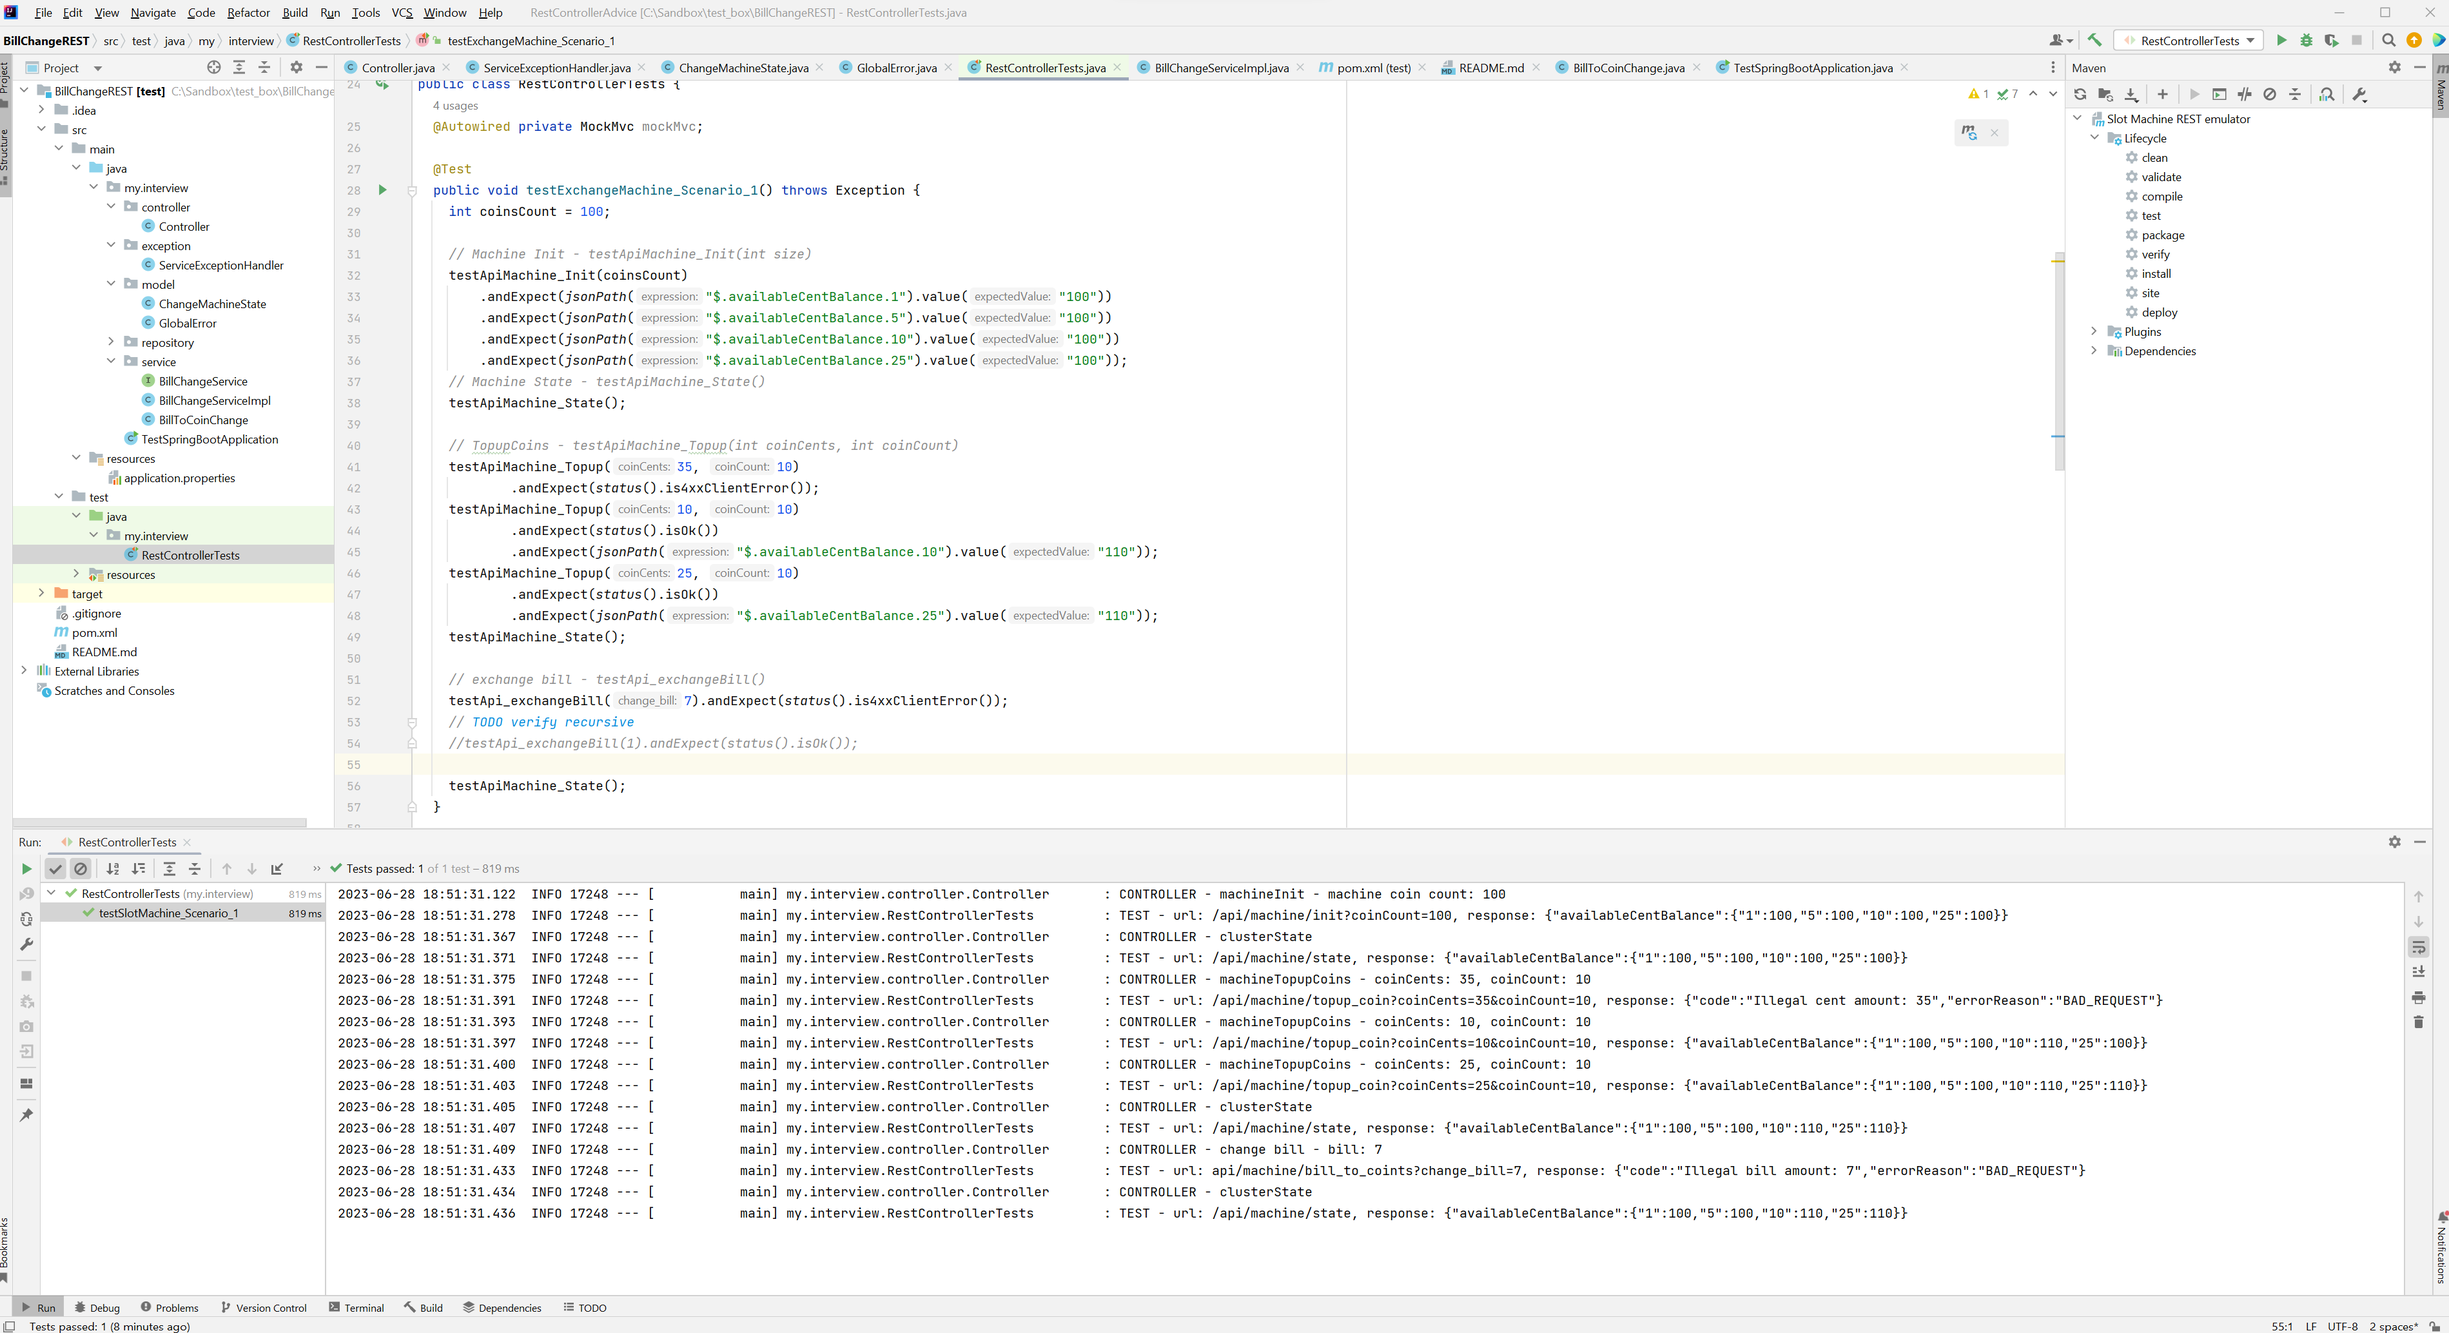
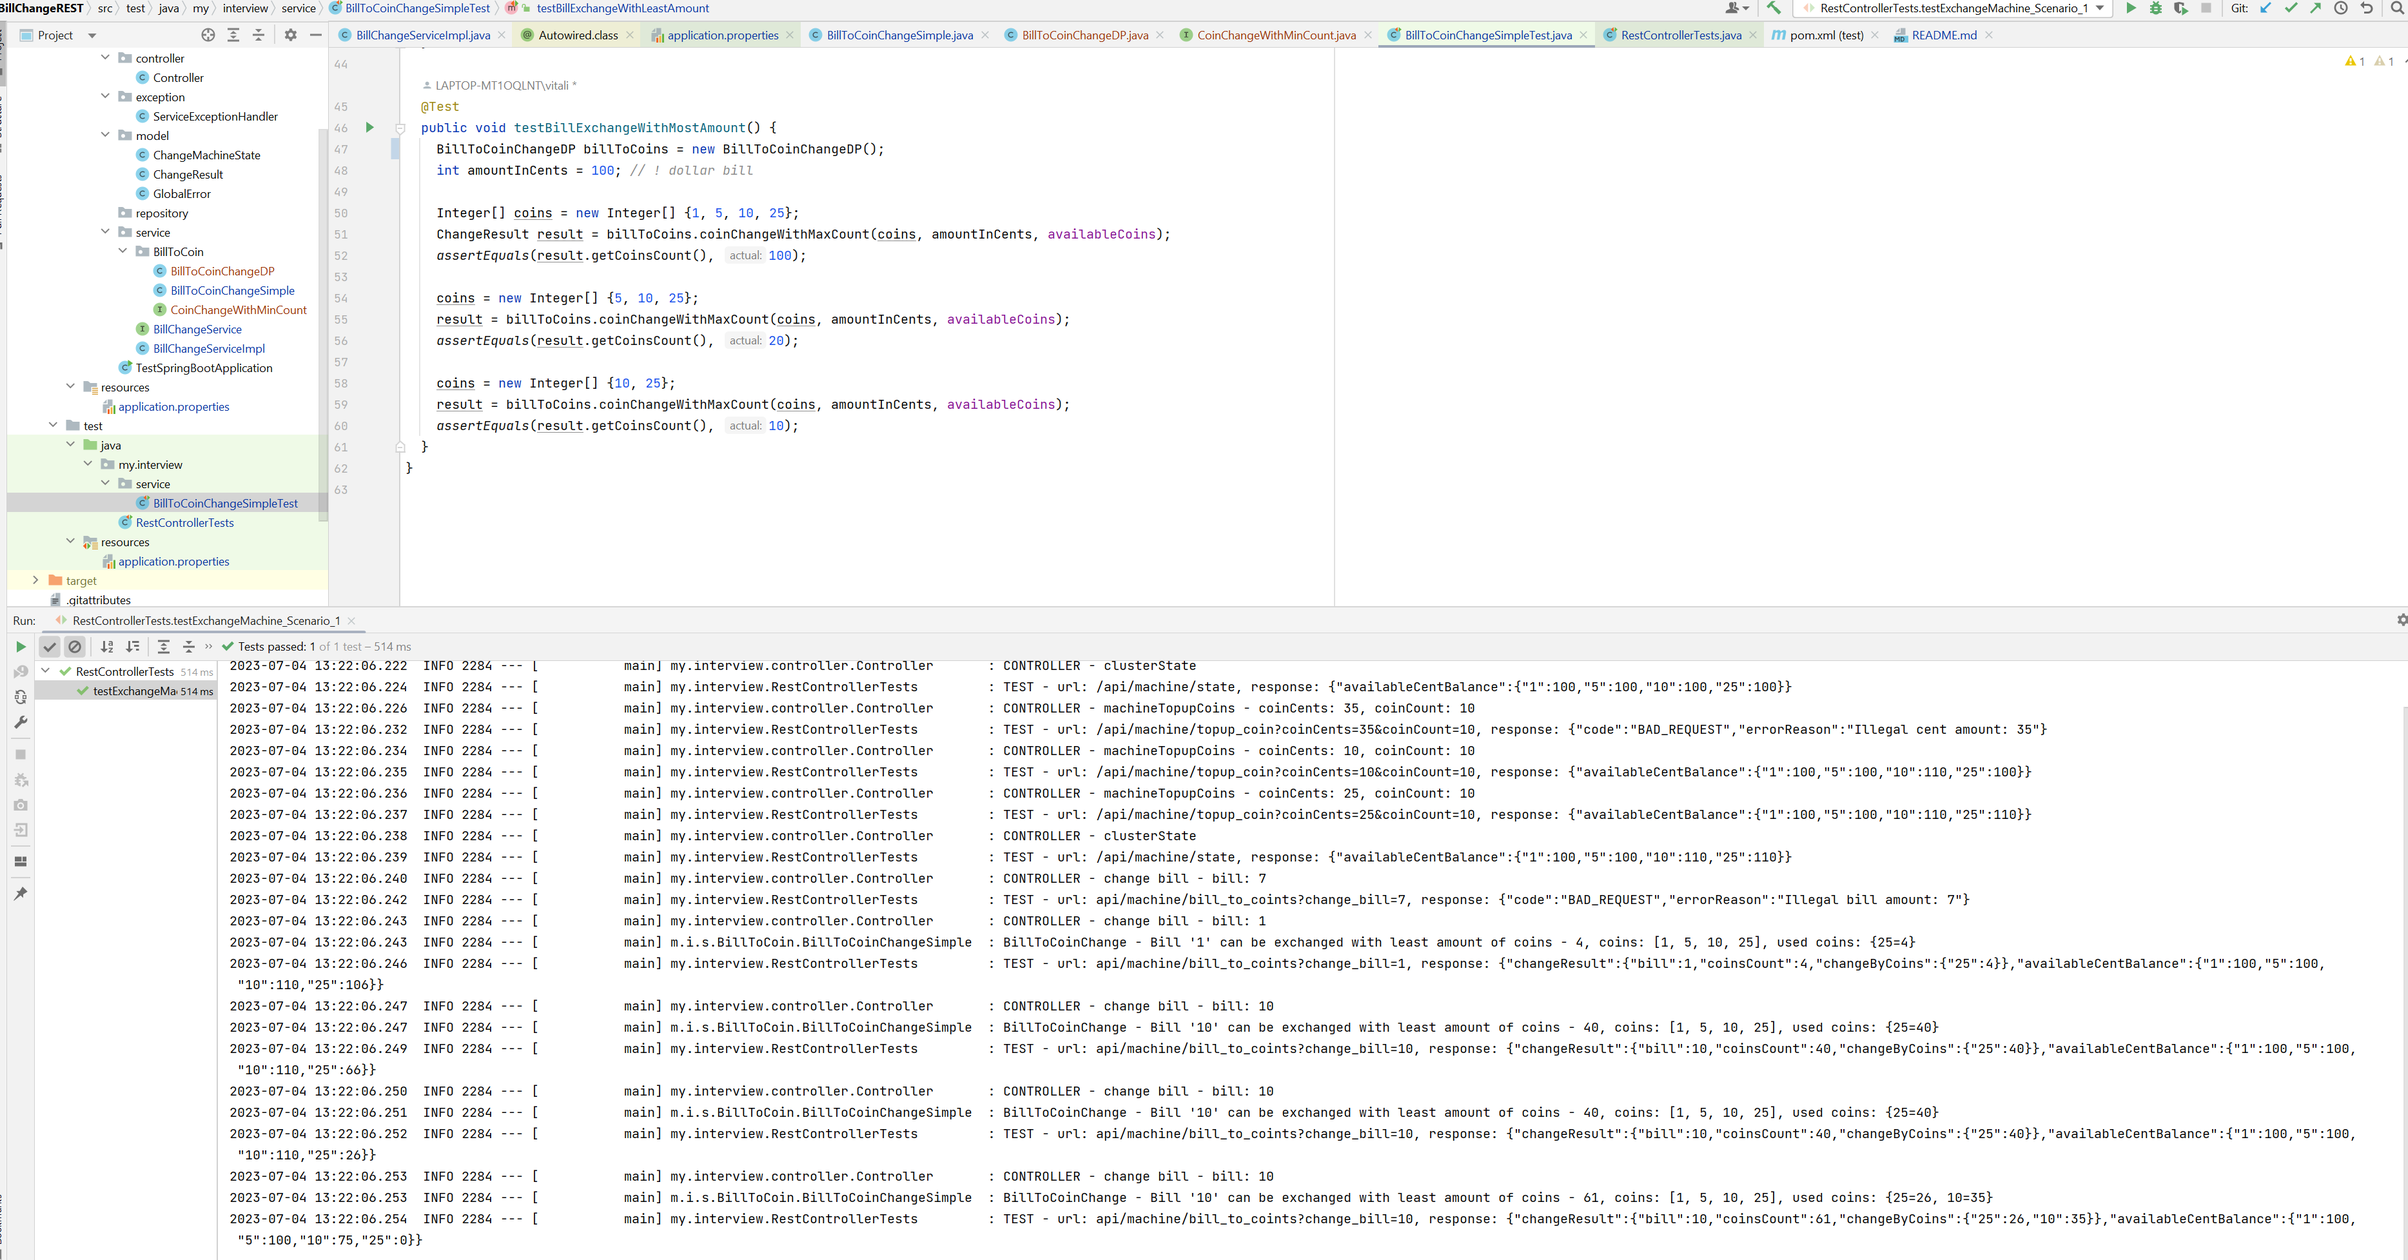
adjust tests to simple approach

diff --git a/src/main/java/my/interview/service/BillChangeServiceImpl.java b/src/main/java/my/interview/service/BillChangeServiceImpl.java
@@ -3,6 +3,11 @@ package my.interview.service;
 import lombok.extern.slf4j.Slf4j;
 import my.interview.model.ChangeMachineState;
 import my.interview.model.ChangeResult;
+import my.interview.service.BillToCoin.BillToCoinChangeSimple;
+import my.interview.service.BillToCoin.CoinChangeWithMinCount;
+import org.springframework.beans.factory.annotation.Autowired;
+import org.springframework.beans.factory.annotation.Qualifier;
+import org.springframework.beans.factory.annotation.Value;
 import org.springframework.stereotype.Service;
 
 import java.util.*;
@@ -12,12 +17,20 @@ import java.util.stream.Stream;
 @Slf4j
 public class BillChangeServiceImpl implements BillChangeService {
 
-  public static final Integer[] AVAILABLE_BILLS = new Integer[] {1, 2, 5, 10, 25, 50, 100};
-  public static final Integer[] AVAILABLE_COINS = new Integer[] {1, 5, 10, 25};
+  @Autowired
+  @Qualifier("BillToCoinChangeSimple")
+  private CoinChangeWithMinCount coinChangeWithMinCount;
+
   private Map<Integer, Integer> coinsAvailable;
 
-  public boolean verifyBillAmount(int billAmount) {
-    if (!Stream.of(AVAILABLE_BILLS).anyMatch(item -> item.equals(billAmount))) {
+  @Value("${application.bills}")
+  public Integer[] availableBills;
+
+  @Value("${application.coins}")
+  public Integer[] availableCoins;
+
+  public boolean verifyBillAmount(Integer billAmount) {
+    if (!Stream.of(availableBills).anyMatch(item -> item.equals(billAmount))) {
       throw new IllegalArgumentException(String.format("Illegal bill amount: %s", billAmount));
     }
 
@@ -25,8 +38,8 @@ public class BillChangeServiceImpl implements BillChangeService {
   }
 
   @Override
-  public boolean verifyCentsAmount(int centAmount) {
-    if (!Stream.of(AVAILABLE_COINS).anyMatch(item -> item.equals(centAmount))) {
+  public boolean verifyCentsAmount(Integer centAmount) {
+    if (!Stream.of(availableCoins).anyMatch(item -> item.equals(centAmount))) {
       throw new IllegalArgumentException(String.format("Illegal cent amount: %s", centAmount));
     }
 
@@ -57,8 +70,8 @@ public class BillChangeServiceImpl implements BillChangeService {
     }
 
     coinsAvailable = new TreeMap<>();
-    for (int i = 0; i < AVAILABLE_COINS.length; i++) {
-      coinsAvailable.put(AVAILABLE_COINS[i], initTokensCount);
+    for (int i = 0; i < availableCoins.length; i++) {
+      coinsAvailable.put(availableCoins[i], initTokensCount);
     }
 
     return buildChangeMachineState(coinsAvailable);
@@ -84,10 +97,8 @@ public class BillChangeServiceImpl implements BillChangeService {
   }
 
   private ChangeMachineState doChangeBill(Integer billInCents) {
-    BillToCoinChange exchanger = new BillToCoinChange();
-
     ChangeResult coinChangeResult =
-        exchanger.coinChangeWithMinCount(AVAILABLE_COINS, billInCents, coinsAvailable);
+        coinChangeWithMinCount.coinChangeWithMinCount(availableCoins, billInCents, coinsAvailable);
 
     adjustCoinChangeResult(coinChangeResult.getChangeByCoins());
 
@@ -101,6 +112,12 @@ public class BillChangeServiceImpl implements BillChangeService {
     coinChangeResult.forEach(
         (key, value) -> {
           Integer current = coinsAvailable.getOrDefault(key, 0);
+
+          if (current < value) {
+            throw new IllegalArgumentException(
+                String.format("Not available %s [cent: %, current: %s]", value, key, current));
+          }
+
           coinsAvailable.put(key, current - value);
         });
   }

diff --git a/src/main/java/my/interview/service/BillToCoin/BillToCoinChangeDP.java b/src/main/java/my/interview/service/BillToCoin/BillToCoinChangeDP.java
@@ -1,32 +1,28 @@
-package my.interview.service;
-
-import lombok.extern.slf4j.Slf4j;
-import my.interview.model.ChangeResult;
+package my.interview.service.BillToCoin;
 
 import java.util.*;
+import lombok.extern.slf4j.Slf4j;
+import my.interview.model.ChangeResult;
+import org.springframework.stereotype.Service;
 
 @Slf4j
-public class BillToCoinChange {
+@Service()
+public class BillToCoinChangeDP implements CoinChangeWithMinCount {
   private Map<Integer, Integer> coinsMemo;
   private Map<Integer, Integer> availableCoins;
 
-  private Integer[] getCoinsLimits(Integer[] coins, Map<Integer, Integer> availableCoins) {
-    Integer[] coinsLimit = new Integer[coins.length];
-    for (int i = 0; i < coins.length; i++) {
-      coinsLimit[i] = availableCoins.getOrDefault(coins[i], 0);
-    }
-
-    return coinsLimit;
-  }
-
+  
+  @Override
   public ChangeResult coinChangeWithMinCount(
       Integer[] coins, int amount, Map<Integer, Integer> availableCoins) {
     this.coinsMemo = new HashMap<>();
     this.availableCoins = availableCoins;
 
-    int minCoins = coinChangeWithMinCountDP(amount, coins);
+    Integer[] coinsLimits = getCoinsLimits(coins, availableCoins);
+    //int minCoins = coinChangeWithMinCountDP(amount, coins);
+    int minCoins = coinChangeWithMinCountDP(amount, coins, coinsLimits);
 
-    // Integer[] coinsLimits = getCoinsLimits(coins, availableCoins);
+
     // int changeDynamics = dynamicChange(amount, coins, coinsLimits);
     // log.info("changeCoins: {}", changeDynamics);
     // int minCoins = coinChangeRecursive(coins, amount, amount, 0, new HashMap<Integer,
@@ -83,6 +79,33 @@ public class BillToCoinChange {
         .coinsCount(maxCoins)
         .changeByCoins(coinsMemo)
         .build();
+  }
+  private int coinChangeWithMinCountDP(int amount, Integer[] coins, Integer[] limits) {
+    Integer currentAmmount = amount;
+    Integer totalCoins = 0;
+
+    for (int i= coins.length - 1; i >= 0; i--){
+      Integer currentLimit  = limits[i];
+
+
+      int  currentCoinsNumber = currentAmmount/coins[i];
+      int divider = Math.min(currentLimit, currentCoinsNumber);
+      totalCoins +=divider;
+
+      currentAmmount = currentAmmount - divider*coins[i];
+
+      log.info("MIN with limit: currentCoinsNumber: {}, curLimit: {}", currentLimit, currentCoinsNumber, divider);
+
+      if (currentCoinsNumber > 0){
+        coinsMemo.put(coins[i], totalCoins);
+      }
+
+      if (currentAmmount == 0){
+        return totalCoins;
+      }
+    }
+
+    return -1;
   }
 
   private int coinChangeWithMinCountDP(int amount, Integer[] coins) {

diff --git a/src/main/java/my/interview/service/BillToCoin/BillToCoinChangeSimple.java b/src/main/java/my/interview/service/BillToCoin/BillToCoinChangeSimple.java
@@ -1,0 +1,73 @@
+package my.interview.service.BillToCoin;
+
+import lombok.extern.slf4j.Slf4j;
+import my.interview.model.ChangeResult;
+import org.springframework.stereotype.Service;
+
+import java.util.*;
+
+@Slf4j
+@Service("BillToCoinChangeSimple")
+public class BillToCoinChangeSimple implements CoinChangeWithMinCount {
+  private Map<Integer, Integer> coinsMemo;
+  private Map<Integer, Integer> availableCoins;
+
+  @Override
+  public ChangeResult coinChangeWithMinCount(
+      Integer[] coins, int amount, Map<Integer, Integer> availableCoins) {
+    this.coinsMemo = new HashMap<>();
+    this.availableCoins = availableCoins;
+
+    Integer[] coinsLimits = getCoinsLimits(coins, availableCoins);
+    int minCoins = coinChangeWithMinCountSimple(amount, coins, coinsLimits);
+
+    if (minCoins == -1) {
+      log.error(
+          "BillToCoinChange - Bill '{}' can not be exchanged with available coins: {}",
+          amount / 100,
+          availableCoins);
+      throw new IllegalArgumentException(
+          String.format(
+              "Bill '%s' can not be exchanged with available coins: %s)",
+              amount / 100, availableCoins));
+    }
+
+    log.info(
+        "BillToCoinChange - Bill '{}' can be exchanged with least amount of coins - {}, coins: {}, used coins: {}",
+        amount / 100,
+        minCoins,
+        coins,
+        coinsMemo);
+
+    return ChangeResult.builder()
+        .bill(amount / 100)
+        .coinsCount(minCoins)
+        .changeByCoins(coinsMemo)
+        .build();
+  }
+
+  private int coinChangeWithMinCountSimple(int amount, Integer[] coins, Integer[] limits) {
+    Integer currentAmmount = amount;
+    Integer totalCoins = 0;
+
+    for (int i = coins.length - 1; i >= 0; i--) {
+      Integer currentLimit = limits[i];
+
+      int currentCoinsNumber = currentAmmount / coins[i];
+      int divider = Math.min(currentLimit, currentCoinsNumber);
+      totalCoins += divider;
+
+      currentAmmount = currentAmmount - divider * coins[i];
+
+      if (currentCoinsNumber > 0) {
+        coinsMemo.put(coins[i], divider);
+      }
+
+      if (currentAmmount == 0) {
+        return totalCoins;
+      }
+    }
+
+    return -1;
+  }
+}

diff --git a/src/test/java/my/interview/RestControllerTests.java b/src/test/java/my/interview/RestControllerTests.java
@@ -30,6 +30,7 @@ public class RestControllerTests {
 
     // Machine Init - testApiMachine_Init(int coinCount)
     testApiMachine_Init(coinsCount)
+        .andExpect(status().isOk())
         .andExpect(jsonPath("$.availableCentBalance.1").value("100"))
         .andExpect(jsonPath("$.availableCentBalance.5").value("100"))
         .andExpect(jsonPath("$.availableCentBalance.10").value("100"))
@@ -64,6 +65,20 @@ public class RestControllerTests {
         .andExpect(jsonPath("$.changeResult.changeByCoins.25").value("40"))
         .andExpect(jsonPath("$.availableCentBalance.25").value("66"));
 
+    testApi_exchangeBill(10)
+            .andExpect(status().isOk())
+            .andExpect(jsonPath("$.changeResult.coinsCount").value("40"))
+            .andExpect(jsonPath("$.changeResult.changeByCoins.25").value("40"))
+            .andExpect(jsonPath("$.availableCentBalance.25").value("26"));
+
+    testApi_exchangeBill(10)
+            .andExpect(status().isOk())
+            .andExpect(jsonPath("$.changeResult.coinsCount").value("61"))
+            .andExpect(jsonPath("$.changeResult.changeByCoins.25").value("26"))
+            .andExpect(jsonPath("$.changeResult.changeByCoins.10").value("35"))
+            .andExpect(jsonPath("$.availableCentBalance.25").value("0"))
+            .andExpect(jsonPath("$.availableCentBalance.10").value("75"));
+
     // testApiMachine_State();
   }
 
@@ -75,8 +90,7 @@ public class RestControllerTests {
                 log.info(
                     "TEST - url: {}, response: {}",
                     "/api/machine/init?coinCount=" + coinCount,
-                    mvcResult.getResponse().getContentAsString()))
-        .andExpect(status().isOk());
+                    mvcResult.getResponse().getContentAsString()));
   }
 
   public ResultActions testApiMachine_State() throws Exception {

diff --git a/src/test/java/my/interview/service/BillToCoinChangeSimpleTest.java b/src/test/java/my/interview/service/BillToCoinChangeSimpleTest.java
@@ -1,6 +1,8 @@
 package my.interview.service;
 
 import my.interview.model.ChangeResult;
+import my.interview.service.BillToCoin.BillToCoinChangeDP;
+import my.interview.service.BillToCoin.BillToCoinChangeSimple;
 import org.junit.Test;
 
 import java.util.HashMap;
@@ -8,19 +10,24 @@ import java.util.Map;
 
 import static org.junit.jupiter.api.Assertions.*;
 
-public class BillToCoinChangeTest {
+public class BillToCoinChangeSimpleTest {
   Map<Integer, Integer> availableCoins = new HashMap<>();
-//  {{
-//    put(1, 100);
-//    put(5, 100);
-//  }};//(1, 100, 5, 100, 10, 100, 25, 100);
+  //  {{
+  //    put(1, 100);
+  //    put(5, 100);
+  //  }};//(1, 100, 5, 100, 10, 100, 25, 100);
   public Integer[] coins = new Integer[] {1, 5, 10, 25};
 
   @Test
   public void testBillExchangeWithLeastAmount() {
 
-    BillToCoinChange billToCoins = new BillToCoinChange();
+    BillToCoinChangeSimple billToCoins = new BillToCoinChangeSimple();
     int amountInCents = 100; // ! dollar bill
+    Map<Integer, Integer> availableCoins = new HashMap<>();
+    availableCoins.put(1, 100);
+    availableCoins.put(5, 100);
+    availableCoins.put(10, 100);
+    availableCoins.put(25, 100);
 
     Integer[] coins = new Integer[] {1, 5, 10, 25};
     ChangeResult result = billToCoins.coinChangeWithMinCount(coins, amountInCents, availableCoins);
@@ -37,8 +44,7 @@ public class BillToCoinChangeTest {
 
   @Test
   public void testBillExchangeWithMostAmount() {
-
-    BillToCoinChange billToCoins = new BillToCoinChange();
+    BillToCoinChangeDP billToCoins = new BillToCoinChangeDP();
     int amountInCents = 100; // ! dollar bill
 
     Integer[] coins = new Integer[] {1, 5, 10, 25};

diff --git a/src/main/java/my/interview/service/BillToCoin/CoinChangeWithMinCount.java b/src/main/java/my/interview/service/BillToCoin/CoinChangeWithMinCount.java
@@ -1,0 +1,19 @@
+package my.interview.service.BillToCoin;
+
+import my.interview.model.ChangeResult;
+
+import java.util.Map;
+
+public interface CoinChangeWithMinCount {
+  ChangeResult coinChangeWithMinCount(
+      Integer[] coins, int amount, Map<Integer, Integer> availableCoins);
+
+  default Integer[] getCoinsLimits(Integer[] coins, Map<Integer, Integer> availableCoins) {
+    Integer[] coinsLimit = new Integer[coins.length];
+    for (int i = 0; i < coins.length; i++) {
+      coinsLimit[i] = availableCoins.getOrDefault(coins[i], 0);
+    }
+
+    return coinsLimit;
+  }
+}

diff --git a/src/main/java/my/interview/service/BillChangeService.java b/src/main/java/my/interview/service/BillChangeService.java
@@ -8,8 +8,8 @@ public interface BillChangeService {
 
   ChangeMachineState getMachineState();
 
-  boolean verifyCentsAmount(int centAmount);
-  boolean verifyBillAmount(int billAmount);
+  boolean verifyCentsAmount(Integer centAmount);
+  boolean verifyBillAmount(Integer billAmount);
 
   ChangeMachineState topupCoins(Integer coinCents, Integer coinCount);
 

diff --git a/README.md b/README.md
@@ -14,12 +14,12 @@ How to run tests:
 
 Run test from IDEA example:
 ```
-@Test
-public void testExchangeMachine_Scenario_1() throws Exception {
-int coinsCount = 100;
+ public void testExchangeMachine_Scenario_1() throws Exception {
+    int coinsCount = 100;
 
     // Machine Init - testApiMachine_Init(int coinCount)
     testApiMachine_Init(coinsCount)
+        .andExpect(status().isOk())
         .andExpect(jsonPath("$.availableCentBalance.1").value("100"))
         .andExpect(jsonPath("$.availableCentBalance.5").value("100"))
         .andExpect(jsonPath("$.availableCentBalance.10").value("100"))
@@ -54,8 +54,22 @@ int coinsCount = 100;
         .andExpect(jsonPath("$.changeResult.changeByCoins.25").value("40"))
         .andExpect(jsonPath("$.availableCentBalance.25").value("66"));
 
+    testApi_exchangeBill(10)
+            .andExpect(status().isOk())
+            .andExpect(jsonPath("$.changeResult.coinsCount").value("40"))
+            .andExpect(jsonPath("$.changeResult.changeByCoins.25").value("40"))
+            .andExpect(jsonPath("$.availableCentBalance.25").value("26"));
+
+    testApi_exchangeBill(10)
+            .andExpect(status().isOk())
+            .andExpect(jsonPath("$.changeResult.coinsCount").value("61"))
+            .andExpect(jsonPath("$.changeResult.changeByCoins.25").value("26"))
+            .andExpect(jsonPath("$.changeResult.changeByCoins.10").value("35"))
+            .andExpect(jsonPath("$.availableCentBalance.25").value("0"))
+            .andExpect(jsonPath("$.availableCentBalance.10").value("75"));
+
     // testApiMachine_State();
-}
+  }
 ```
 
 ![img.png](img.png)
